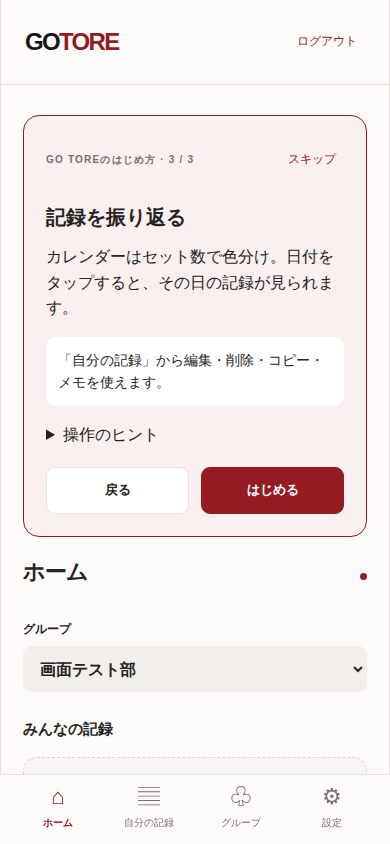
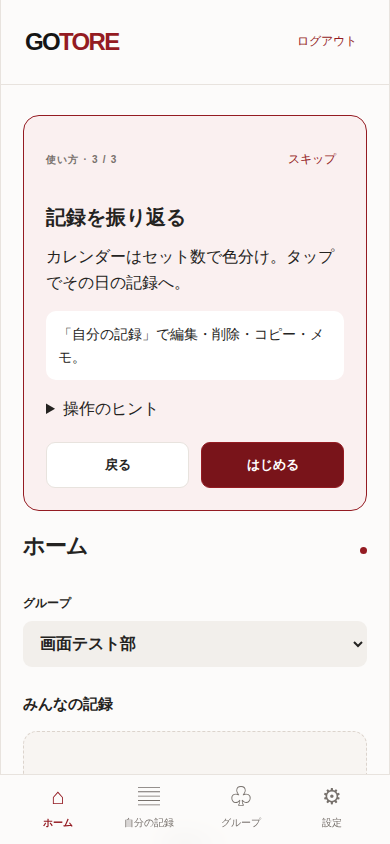
fix: 残る説明とエラー通知を短縮

diff --git a/frontend/src/features/onboarding/onboarding-guide.tsx b/frontend/src/features/onboarding/onboarding-guide.tsx
@@ -3,30 +3,30 @@ import { useEffect, useRef, useState } from "react";
 const steps = [
   {
     title: "仲間とつながる",
-    description: "「グループ」で作成・招待コードから参加。ひとりでも記録できます。",
-    hint: "共有先に選んだグループだけに、表示名と記録が見えます。メモは自分だけに表示されます。",
+    description: "グループを作成、または招待コードで参加。ひとりでも使えます。",
+    hint: "表示名と記録は選んだグループだけに共有。メモは自分だけ。",
     tips: [
-      "招待コードを再発行すると旧コードは無効になります。",
-      "退出・除外後も本人の記録は残ります。再参加しても再共有されません。オーナーは退出できません。",
+      "再発行で旧コードは無効。",
+      "退出・除外後も本人の記録は残り、再参加しても再共有しません。オーナーは退出不可。",
     ],
   },
   {
     title: "トレーニングを記録",
-    description: "「記録する」で日付・種目・セットを入力。種目リストは追加・削除できます。",
-    hint: "新規入力はこのブラウザに下書き保存されます。保存前は共有されません。",
+    description: "日付・種目・セットを入力。種目リストは追加・削除できます。",
+    hint: "新規入力はブラウザに下書き保存。確定前は非共有。",
     tips: [
-      "Enterで次の欄へ。最後の回数欄ではセットを追加します。重量欄で空のままEnterを押すと前セットの重量を採用します。",
-      "種目リストから削除しても記録と下書きは残ります。コピーは今日・自分だけの新規下書きになります。",
+      "Enterで次の欄へ。最後の回数欄ではセット追加。空の重量欄では前セットの重量を採用。",
+      "種目削除後も記録・下書きは保持。コピーは今日・自分だけの新規下書き。",
     ],
   },
   {
     title: "記録を振り返る",
-    description: "カレンダーはセット数で色分け。日付をタップすると、その日の記録が見られます。",
-    hint: "「自分の記録」から編集・削除・コピー・メモを使えます。",
+    description: "カレンダーはセット数で色分け。タップでその日の記録へ。",
+    hint: "「自分の記録」で編集・削除・コピー・メモ。",
     tips: [
-      "編集とメモは保存ボタンで確定します。保存前に閉じると入力は消えます。編集では共有先を変更できません。",
-      "メモは1000文字まで。空欄を保存すると消去されます。記録の削除は共有先にも反映され、元に戻せません。",
-      "表示名は過去の共有記録にも反映されます。メール・パスワードの変更は管理者へ。",
+      "編集・メモは保存で確定。閉じると未保存の入力は消えます。共有先は編集不可。",
+      "メモは1000文字まで。空欄保存で消去。記録削除は共有先にも反映され、復元不可。",
+      "表示名は過去の記録にも反映。メール・パスワード変更は管理者へ。",
     ],
   },
 ];
@@ -76,7 +76,7 @@ export function OnboardingGuide({ userId, replay }: { userId: string; replay: nu
     <section className="panel onboarding-guide" aria-label="使い方ガイド">
       <div className="onboarding-header">
         <p className="eyebrow">
-          GO TOREのはじめ方 · {step + 1} / {steps.length}
+          使い方 · {step + 1} / {steps.length}
         </p>
         <button className="text-button" type="button" onClick={close}>
           スキップ

diff --git a/frontend/src/features/training/training-app.tsx b/frontend/src/features/training/training-app.tsx
@@ -97,9 +97,9 @@ function Workspace({ session }: { session: Session }) {
               const result = await getSupabase()?.auth.signOut({
                 scope: "local",
               });
-              if (result?.error) setNotice("ログアウトできませんでした。再試行してください。");
+              if (result?.error) setNotice("ログアウトできません。再試行してください。");
             } catch {
-              setNotice("ログアウトできませんでした。接続を確認してください。");
+              setNotice("ログアウトできません。接続を確認してください。");
             } finally {
               setSigningOut(false);
             }
@@ -137,14 +137,12 @@ function Workspace({ session }: { session: Session }) {
           <>
             <SettingsPanel onSaved={() => setRefreshKey((value) => value + 1)} />
             <section className="panel">
-              <h2>使い方</h2>
-
               <button
                 className="secondary full"
                 type="button"
                 onClick={() => setGuideReplay((value) => value + 1)}
               >
-                使い方を見る
+                使い方
               </button>
             </section>
           </>
@@ -269,7 +267,7 @@ function Workspace({ session }: { session: Session }) {
                     personal={view === "records"}
                     records={records.data}
                     userId={session.user.id}
-                    empty={view === "home" ? "" : selectedDate ? "この日の記録はありません。" : ""}
+                    empty={view === "home" ? "" : selectedDate ? "この日は記録なし" : ""}
                   />
                 )}
                 {(page > 0 || records.data?.length === 50) && (
@@ -374,7 +372,7 @@ export function TrainingApp() {
   if (!ready)
     return (
       <main className="auth-page">
-        <output>GO TOREを開いています…</output>
+        <output>読み込み中…</output>
       </main>
     );
   return session ? <Workspace key={session.user.id} session={session} /> : <AuthPanel />;

diff --git a/frontend/src/lib/api.ts b/frontend/src/lib/api.ts
@@ -28,7 +28,7 @@ export type Workout = {
 
 export async function api<T>(path: string, options: RequestInit = {}): Promise<T> {
   const client = getSupabase();
-  if (!client) throw new Error("ログインの準備ができていません。");
+  if (!client) throw new Error("ログインを利用できません。");
   const { data, error } = await client.auth.getSession();
   if (error || !data.session) throw new Error("ログインし直してください。");
   let response: Response;
@@ -43,7 +43,7 @@ export async function api<T>(path: string, options: RequestInit = {}): Promise<T
       },
     });
   } catch {
-    throw new Error("通信できませんでした。接続を確認して再試行してください。");
+    throw new Error("通信できませんでした。再試行してください。");
   }
   const body = await response.json().catch(() => null);
   if (!response.ok) {
@@ -51,8 +51,8 @@ export async function api<T>(path: string, options: RequestInit = {}): Promise<T
     throw new Error(
       message ??
         (response.status === 422
-          ? "入力内容を確認してください。重量は小数1桁まで、回数は1以上の整数です。"
-          : "データを取得できませんでした。時間をおいて再試行してください。"),
+          ? "入力を確認してください。"
+          : "取得できません。再試行してください。"),
     );
   }
   return body as T;

diff --git a/frontend/src/features/training/workout-form.tsx b/frontend/src/features/training/workout-form.tsx
@@ -147,7 +147,7 @@ export function WorkoutForm({
     const next = exercise.sets[setIndex + 1];
     if (next) inputs.current.get(`${next.key}:weight`)?.focus();
     else if (exercise.sets.length < 30) addSet(exercise.key);
-    else setError("1種目は30セットまでです。保存は下の確定ボタンから行ってください。");
+    else setError("1種目は30セットまでです。");
   }
 
   async function submit(event: FormEvent) {
@@ -196,7 +196,7 @@ export function WorkoutForm({
 
       <h1>{editing ? "記録の編集" : "記録"}</h1>
 
-      {source && <p className="notice">{source.performed_on}の記録をコピーしました。</p>}
+      {source && <p className="notice">{source.performed_on}からコピー</p>}
 
       {catalog.loading && <output className="loading">読み込み中…</output>}
       {catalog.error && (
@@ -429,7 +429,7 @@ export function WorkoutForm({
           </p>
         )}
         {storageWarning && (
-          <output className="notice">下書きを保持できません。閉じる前に保存してください。</output>
+          <output className="notice">下書きを保持できません。保存してください。</output>
         )}
       </form>
     </section>

diff --git a/frontend/src/features/settings/settings-panel.tsx b/frontend/src/features/settings/settings-panel.tsx
@@ -97,7 +97,7 @@ function DisplayNameForm({ displayName, onSaved }: { displayName: string; onSave
         {message && <output className="notice">{message}</output>}
         {needsSync && (
           <div className="error" role="alert">
-            表示名は更新済みですが、共有記録への反映を確認できませんでした。
+            表示名は更新済み。共有への反映は未確認です。
             <button
               className="secondary full"
               type="button"
@@ -108,10 +108,10 @@ function DisplayNameForm({ displayName, onSaved }: { displayName: string; onSave
                 try {
                   await syncProfile();
                   setNeedsSync(false);
-                  setMessage("共有記録への反映を確認しました。");
+                  setMessage("反映しました。");
                   onSaved();
                 } catch {
-                  setError("反映を確認できませんでした。時間をおいて再試行してください。");
+                  setError("反映を確認できません。再試行してください。");
                 } finally {
                   setBusy(false);
                 }

diff --git a/frontend/src/features/exercises/exercise-catalog.tsx b/frontend/src/features/exercises/exercise-catalog.tsx
@@ -24,7 +24,7 @@ export function ExerciseCatalog({
     if (busy) return;
     const normalized = name.trim();
     if (!normalized || [...normalized].length > 60) {
-      setError("種目名は前後の空白を除いて1〜60文字で入力してください。");
+      setError("種目名は1〜60文字です。");
       return;
     }
     setPending(true);
@@ -36,7 +36,7 @@ export function ExerciseCatalog({
         body: JSON.stringify({ name: normalized }),
       });
       setName("");
-      setNotice(`「${normalized}」を追加しました。`);
+      setNotice("追加しました。");
       onChanged();
     } catch (reason) {
       setError(reason instanceof Error ? reason.message : "種目を追加できませんでした。");
@@ -52,7 +52,7 @@ export function ExerciseCatalog({
     setNotice("");
     try {
       await api<void>(`/exercise-options/${deleting.id}`, { method: "DELETE" });
-      setNotice(`「${deleting.name}」をリストから削除しました。`);
+      setNotice("削除しました。");
       setDeleting(null);
       onChanged();
     } catch (reason) {

diff --git a/frontend/src/features/training/auth-panel.tsx b/frontend/src/features/training/auth-panel.tsx
@@ -20,12 +20,10 @@ export function AuthPanel() {
     try {
       const result = await client.auth.signInWithPassword({ email, password });
       if (result.error) {
-        setError(
-          "ログインできませんでした。メールアドレスとパスワードを確認し、解決しない場合は管理者にお問い合わせください。",
-        );
+        setError("ログインできません。入力を確認し、解決しなければ管理者へ。");
       }
     } catch {
-      setError("接続できませんでした。時間をおいて再試行してください。");
+      setError("接続できません。再試行してください。");
     } finally {
       setBusy(false);
     }
@@ -73,7 +71,7 @@ export function AuthPanel() {
         </form>
         {!configured && (
           <p role="alert" className="error">
-            ログインの準備ができていません。管理者にお問い合わせください。
+            ログインできません。管理者へ。
           </p>
         )}
         {error && (

diff --git a/frontend/src/features/training/draft.ts b/frontend/src/features/training/draft.ts
@@ -69,7 +69,7 @@ export function readDraft(value: string | null): Draft | null {
 
 export function workoutPayload(draft: Draft) {
   const exercises = draft.exercises.map((exercise) => {
-    if (!exercise.name.trim()) throw new Error("種目名を入力してください。");
+    if (!exercise.name.trim()) throw new Error("種目を選んでください。");
     return {
       name: exercise.name.trim(),
       sets: exercise.sets.map((set) => {
@@ -86,9 +86,7 @@ export function workoutPayload(draft: Draft) {
           reps < 1 ||
           reps > 1000
         ) {
-          throw new Error(
-            "重量は0〜1,000kg（小数1桁まで）、回数は1〜1,000の整数で入力してください。",
-          );
+          throw new Error("重量: 0〜1,000kg・小数1桁まで。回数: 1〜1,000の整数。");
         }
         return { weight, reps };
       }),

diff --git a/frontend/src/features/training/membership-panel.tsx b/frontend/src/features/training/membership-panel.tsx
@@ -67,22 +67,18 @@ export function MembershipPanel({
           </div>
         ))}
       </div>
-      {owner ? (
-        <p className="muted">オーナーはこの退出できません。</p>
-      ) : (
-        self && (
-          <button
-            type="button"
-            className="secondary"
-            disabled={busy}
-            onClick={() => {
-              setTarget(self);
-              setError("");
-            }}
-          >
-            退出
-          </button>
-        )
+      {!owner && self && (
+        <button
+          type="button"
+          className="secondary"
+          disabled={busy}
+          onClick={() => {
+            setTarget(self);
+            setError("");
+          }}
+        >
+          退出
+        </button>
       )}
       {target && (
         <div className="membership-confirm">
